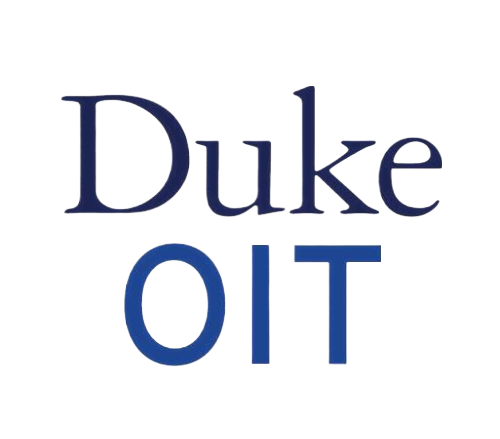
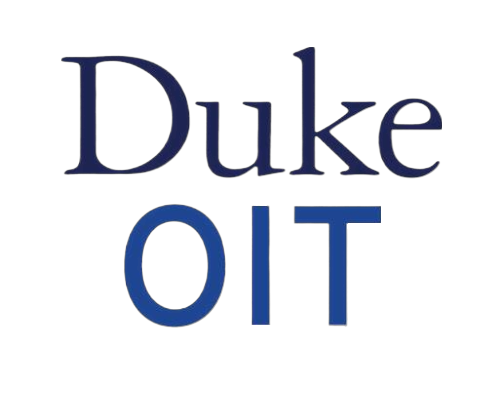
images finally same size

diff --git a/chipReact/src/pages/LogoSlider.js b/chipReact/src/pages/LogoSlider.js
@@ -16,7 +16,7 @@ export default function LogoSlider () {
 
     return (
       <div className="slider">
-        <Carousel showStatus={false} showThumbs={false} showIndicators={false} width={170}>
+        <Carousel showStatus={false} showThumbs={false} showIndicators={false} width={205}>
           {images.map((imageSrc, index) => (
             <div key={index}>
               <img src={imageSrc} alt={`Image ${index + 1}`} id="force"/>

diff --git a/chipReact/src/pages/Home.css b/chipReact/src/pages/Home.css
@@ -96,7 +96,6 @@ html, body {
     margin: 8px;
     border-radius: 8px;
     background-color: var(--limestone);
-    /* object-fit: contain; */
 }
 
 #force {
